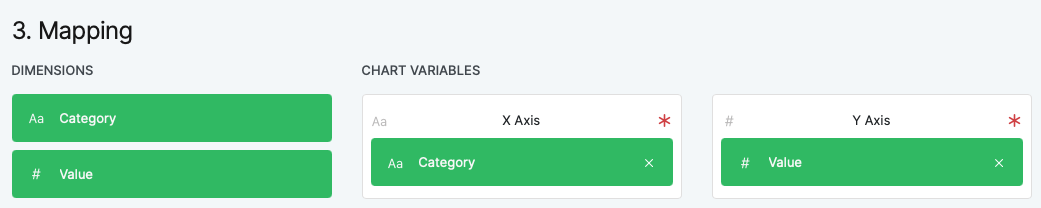
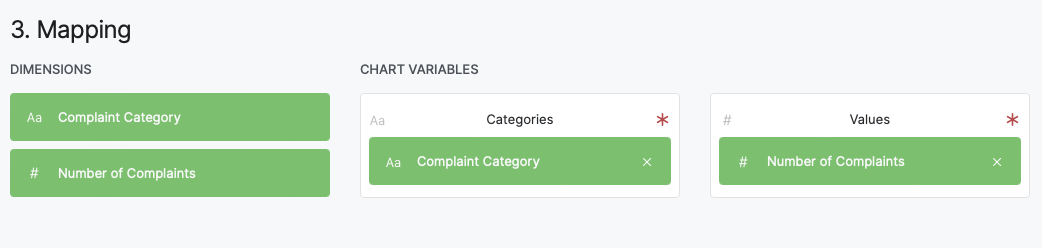
update pareto description

diff --git a/Descriptions.md b/Descriptions.md
@@ -3,6 +3,7 @@
 Below are detailed descriptions about the charts included in the repository.
 
 # Paired Bar Chart
+
 A paired bar chart displays two related data sets side by side for direct comparison. It's commonly used to compare categories across two groups, such as male vs. female or before vs. after.
 
 <img src="images/pairedbarchart.svg" alt="Chart" width="300"/>
@@ -31,19 +32,19 @@ In RAWGraphs, choose the following data mapping:
 
 <img src="images/bulletchart-mapping.png" alt="Chart" width="600"/>
 
-The second recommended dataset is `happiness.csv`. This dataset shows the 
+The second recommended dataset is `happiness.csv`. This dataset shows the
 
 # Connected Scatter Plot
 
-
 # Pareto Chart
+
 A Pareto chart is a combination of a bar chart and a line graph. The line shows the cumulative percentage.
 
 <img src="images/pareto.svg" alt="Chart" width="300"/>
 
 ## Data
 
-The recommended dataset for this chart is `km.csv`. This dataset shows the average km/h per category (train, car etc.).
+The recommended dataset for this chart is `complaints.csv`. This dataset shows the number of customer complaints grouped by issue type.
 
 In RAWGraphs, choose the following data mapping:
 
@@ -66,7 +67,6 @@ In RAWGraphs, choose the following data mapping:
 <img src="images/similaritymap-mapping.png" alt="Chart" width="600"/>
 
 Feel free to swap the dimensions to the ones you are interested in. In the `Customize` section of RAWGraphs under `Dimensionality Reduction` you can choose one of three reduction methods which are PCA, UMAP and t-SNE.
-
 
 # Polar Area Chart
 
